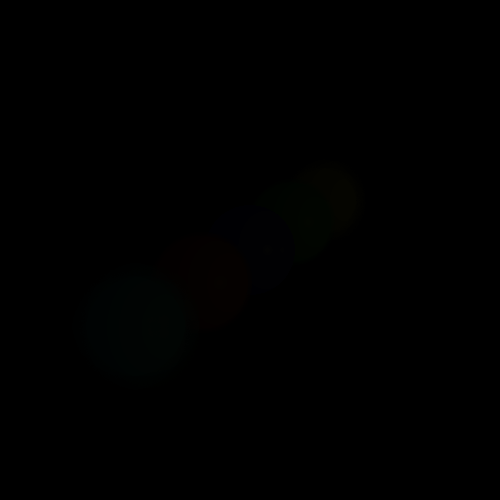
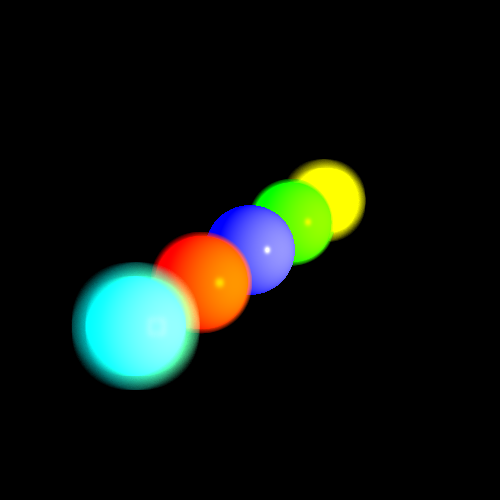
c

Changed region(s): [[0.12, 0.3, 0.75, 0.78]]

diff --git a/src/unittests/FocusTests.java b/src/unittests/FocusTests.java
@@ -44,14 +44,14 @@ public class FocusTests {
 		scene.lights.add(new PointLight(new Color(700, 400, 400), new Point3D(0, 5, 0))); //
 		scene.lights.add(new DirectionalLight(new Color(700, 400, 400), new Vector(0, -1, 0))); //
 
-		ImageWriter imageWriter = new ImageWriter("DepthOfField", 600, 600);
-		Render render = new Render() //
-				.setImageWriter(imageWriter) //
-				.setCamera(camera) //
-				.setRayTracerBase(new RayTracerBasic(scene));
-
-		render.renderImageFocus();
-		render.writeToImage();
+//		ImageWriter imageWriter = new ImageWriter("DepthOfField", 600, 600);
+//		Render render = new Render() //
+//				.setImageWriter(imageWriter) //
+//				.setCamera(camera) //
+//				.setRayTracerBase(new RayTracerBasic(scene));
+//
+//		render.renderImageFocus();
+//		render.writeToImage();
 	}//end
 
 	@Test
@@ -83,13 +83,13 @@ public class FocusTests {
 	//scene1.lights.add(new DirectionalLight(new Color(500, 300, 0), new Vector(1, 1, -1)));
 	scene1.lights.add(new DirectionalLight(new Color(300, 300, 0), new Vector(-1, 0, -1)));
 
-	ImageWriter imageWriter = new ImageWriter("focus2", 500, 500);
-	Render render = new Render()//
-			.setImageWriter(imageWriter) //
-			.setCamera(camera1) //
-			.setRayTracerBase(new RayTracerBasic(scene1));
-	render.renderImageAdaptiveSuperSumpling();
-	render.writeToImage();
+//	ImageWriter imageWriter = new ImageWriter("focus2", 500, 500);
+//	Render render = new Render()//
+//			.setImageWriter(imageWriter) //
+//			.setCamera(camera1) //
+//			.setRayTracerBase(new RayTracerBasic(scene1));
+//	render.renderImageAdaptiveSuperSumpling();
+//	render.writeToImage();
 	
 	ImageWriter imageWriter2 = new ImageWriter("focus3", 500, 500);
 	Render render2 = new Render()//

diff --git a/src/renderer/Render.java b/src/renderer/Render.java
@@ -21,7 +21,7 @@ public class Render {
 	
 	//N_RENDER - The square root of the number of rays sent through each pixel
 	private static final int N_SUPER_SAMPLING = 4;
-	private static final int N_DEPTH_OF_FIELD = 5;
+	private static final int N_DEPTH_OF_FIELD = 150;
 	private static final int MAX_LEVEL_ADAPTIVE_SS = 4;
 	
 	private int threadsCount = 0;
@@ -436,7 +436,7 @@ public class Render {
 				var lst = camera.getApertureRays(Nx, Ny, j, i, N_DEPTH_OF_FIELD);
 				for (Ray ray: lst)
 					color = color.add(rayTracerBase.TraceRay(ray));
-				color = color.reduce(600);
+				color = color.reduce(N_DEPTH_OF_FIELD*4);
 				imageWriter.writePixel(j, i, color);
 				}
 			}

diff --git a/src/elements/Camera.java b/src/elements/Camera.java
@@ -285,7 +285,7 @@ public class Camera {
 		Point3D p3 = pcenter.add(vRight.scale(l/2)).add(vUp.scale(-l/2));
 		Point3D p4 = pcenter.add(vRight.scale(-l/2)).add(vUp.scale(-l/2));
 		lstp.addAll(List.of(p1, p2, p3, p4)); 
-		for (int a= 0;a<N/4; a++) {
+		for (int a= 0;a<N; a++) {
 			double dX = rand.nextDouble()*l;
 			if(dX != 0)
 			{			
